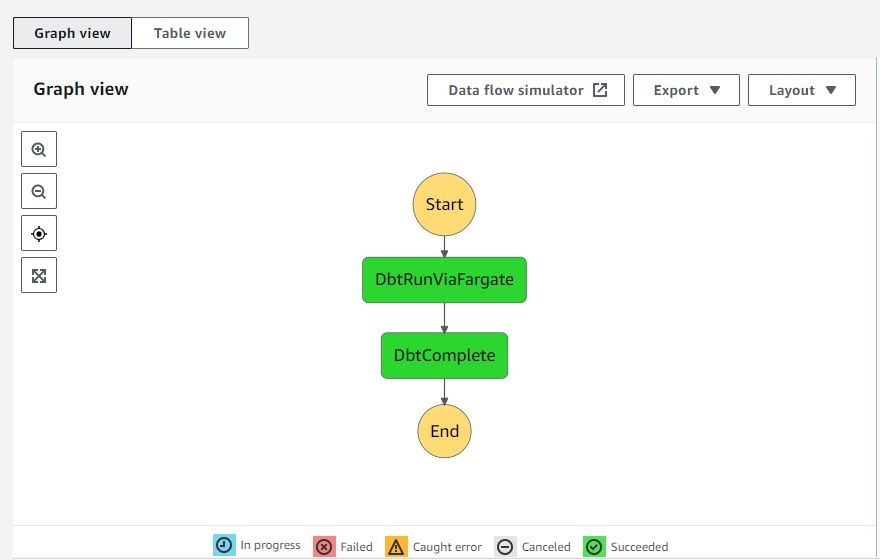
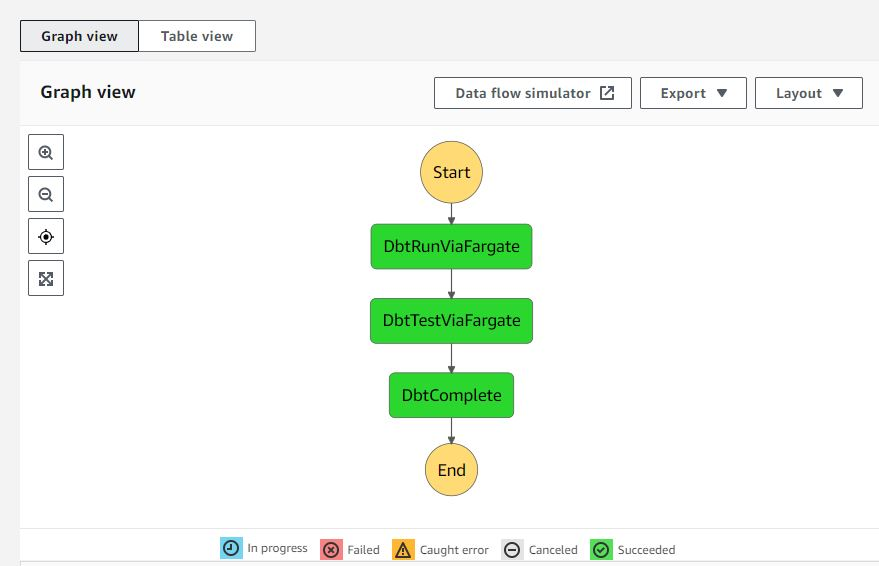
Get dbt test working and also logging working! * Also a README update

diff --git a/dbt_fargate_poc/dbt_fargate_poc_stack.py b/dbt_fargate_poc/dbt_fargate_poc_stack.py
@@ -1,6 +1,7 @@
 from aws_cdk import Stack
 from aws_cdk import aws_ec2 as ec2
 from aws_cdk import aws_ecs as ecs
+from aws_cdk import aws_iam, aws_logs
 from aws_cdk import aws_stepfunctions as sfn
 from aws_cdk import aws_stepfunctions_tasks as tasks
 from constructs import Construct
@@ -64,35 +65,66 @@ class DbtFargatePocStack(Stack):
         container_name = "andrewwlane/dockerized-dbt"  # https://hub.docker.com/r/andrewwlane/dockerized-dbt
         container_tag = "latest"
 
-        fargate_task_definition = ecs.FargateTaskDefinition(
-            self, "DbtExecutionTask", memory_limit_mib=512, cpu=256
+        execution_role = aws_iam.Role(
+            self,
+            "DbtFargateExecutionRole",
+            assumed_by=aws_iam.ServicePrincipal("ecs-tasks.amazonaws.com"),
+            role_name="DbtFargateCDKExecutionRole",
         )
-        dbt_run_container = fargate_task_definition.add_container(
+
+        dbt_run_fargate_task_definition = ecs.FargateTaskDefinition(
+            self,
+            "DbtRunExecutionTask",
+            memory_limit_mib=512,
+            cpu=256,
+            execution_role=execution_role,
+            task_role=execution_role,
+        )
+        dbt_test_fargate_task_definition = ecs.FargateTaskDefinition(
+            self,
+            "DbtTestExecutionTask",
+            memory_limit_mib=512,
+            cpu=256,
+            execution_role=execution_role,
+            task_role=execution_role,
+        )
+
+        dbt_run_container = dbt_run_fargate_task_definition.add_container(
             "DbtRunContainer",
             image=ecs.ContainerImage.from_registry(f"{container_name}:{container_tag}"),
             command=["run"],
+            logging=ecs.LogDriver.aws_logs(stream_prefix="FargateDbtRun"),
         )
-        # dbt_test_container = fargate_task_definition.add_container(
-        #     "DbtTestContainer",
-        #     image=ecs.ContainerImage.from_registry(f"{container_name}:{container_tag}"),
-        #     command=["test"],
-        # )
+        dbt_test_container = dbt_test_fargate_task_definition.add_container(
+            "DbtTestContainer",
+            image=ecs.ContainerImage.from_registry(f"{container_name}:{container_tag}"),
+            command=["test"],
+            logging=ecs.LogDriver.aws_logs(stream_prefix="FargateDbtTest"),
+        )
 
         vpc = ec2.Vpc(self, "FargateVpc")
         cluster = ecs.Cluster(self, "DbtFargateCluster", vpc=vpc)
 
         dbt_run_task = self.get_ecs_task(
-            "DbtRunViaFargate", cluster, fargate_task_definition, dbt_run_container
+            "DbtRunViaFargate",
+            cluster,
+            dbt_run_fargate_task_definition,
+            dbt_run_container,
         )
-        # dbt_test_task = self.get_ecs_task(
-        #     "DbtTestViaFargate", cluster, fargate_task_definition, dbt_test_container
-        # )
+        dbt_test_task = self.get_ecs_task(
+            "DbtTestViaFargate",
+            cluster,
+            dbt_test_fargate_task_definition,
+            dbt_test_container,
+        )
+
+        log_group = aws_logs.LogGroup(self, "DbtFargatePocLogGroup")
 
         sfn.StateMachine(
             self,
             "DbtOrchestrationStateMachine",
             definition=dbt_run_task.next(
-                # dbt_test_task.next(sfn.Succeed(self, "DbtComplete"))
-                sfn.Succeed(self, "DbtComplete")
+                dbt_test_task.next(sfn.Succeed(self, "DbtComplete"))
             ),
+            logs=sfn.LogOptions(destination=log_group, level=sfn.LogLevel.ALL),
         )

diff --git a/README.md b/README.md
@@ -5,10 +5,6 @@ An attempt to POC orchestrating dbt via a Step Functions State Machine that runs
 
 Creates the following constructs: VPC, ECS cluster, Fargate task definition, ECS task, State Machine.
 
-## Incomplete
-
-Ideally the state machine would have a task that calls `dbt run` be followed (if it succeeds) by a task that runs `dbt test`, but the test step is not working (just commented out) as of now.
-
 ## Workflow
 
 The Fargate task definition points to a container at https://hub.docker.com/r/andrewwlane/dockerized-dbt (see also: https://github.com/AndrewLane/dockerized-dbt) whose purpose is to execute `dbt run` (or `dbt test`) and use the environment variables passed in to the first task of the state machine.
